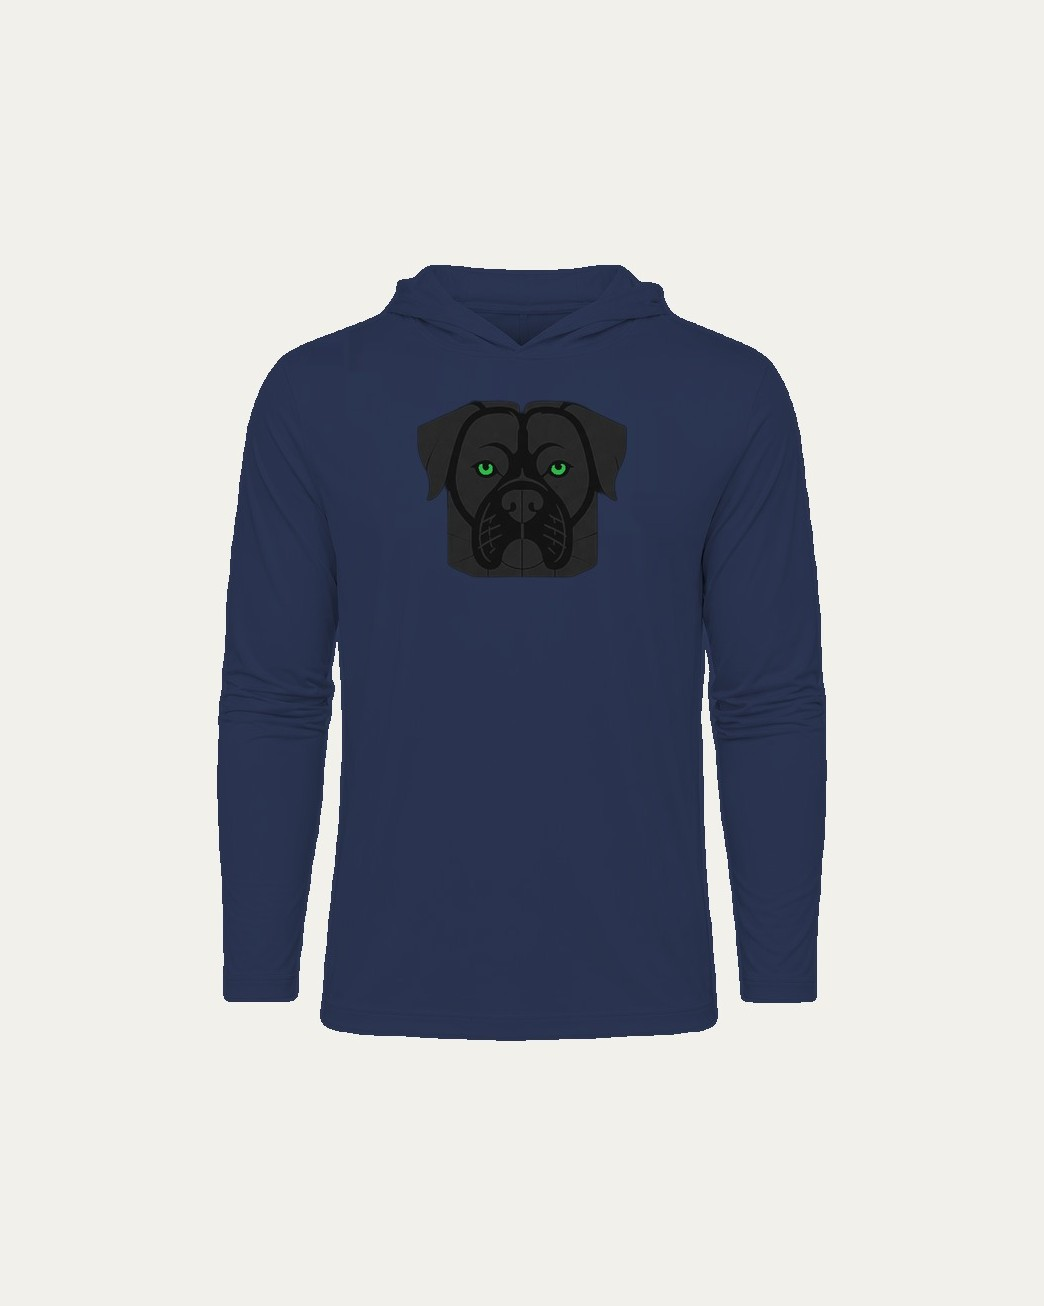
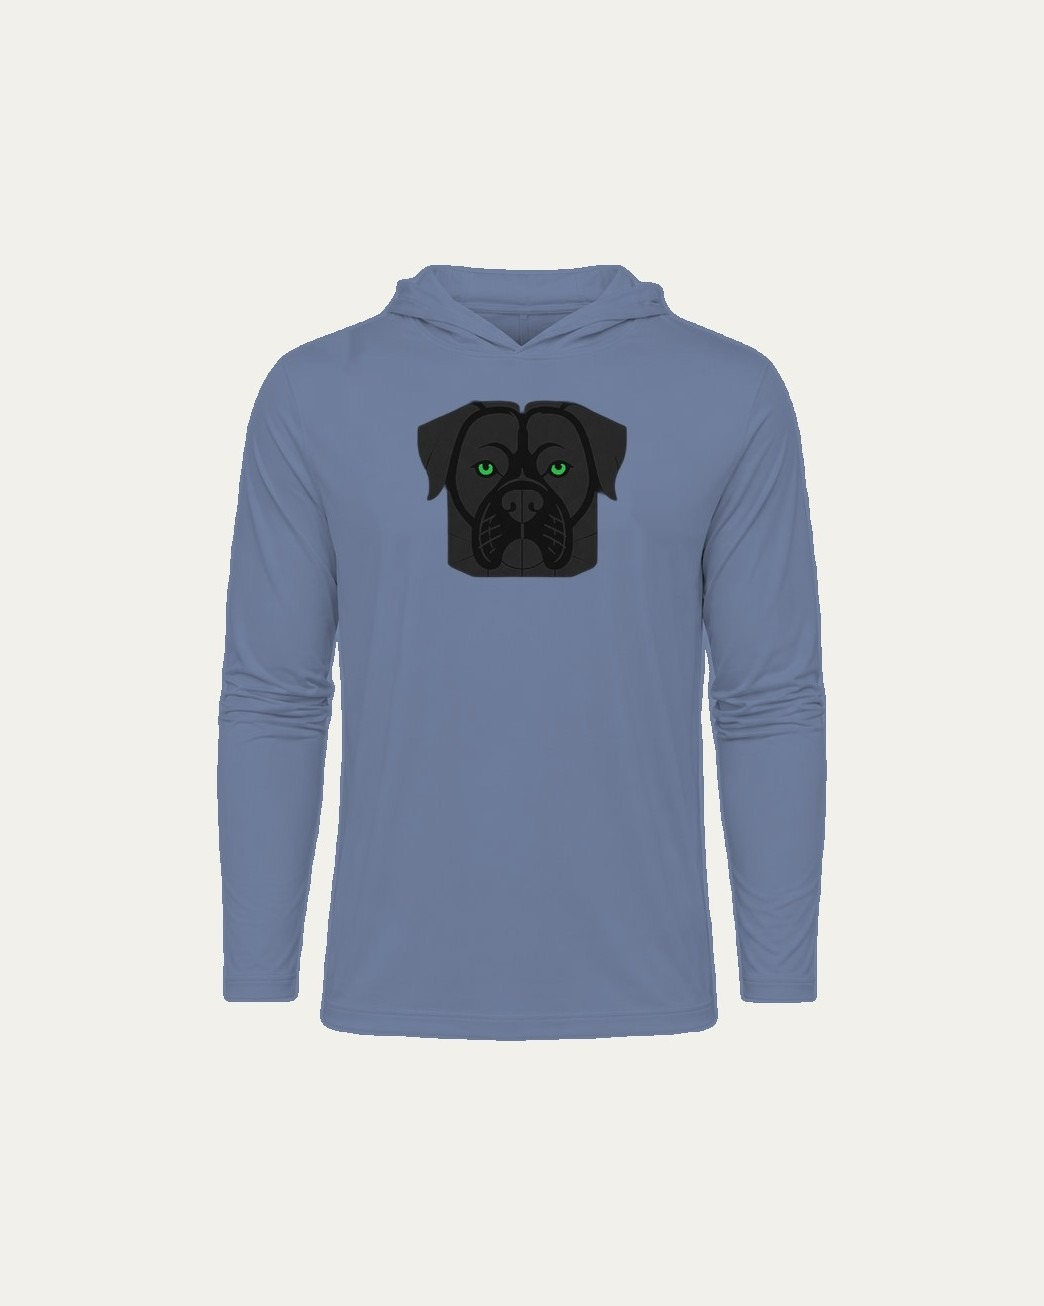
Georgia Blue: recolor from dark navy to the real dusty-blue garment color
Recolored every Georgia Blue (navy) asset to match the actual garment
Deven sent (a muted cornflower #6c7a98), replacing the too-dark slate
navy: ghost chest+madison (front/back/wide), on-model lookbook + madison
woman, both marquee tiles, and the swatch hex.

Changed region(s): [[0.1839, 0.1838, 0.7969, 0.7963]]

diff --git a/src/lib/products.ts b/src/lib/products.ts
@@ -69,7 +69,7 @@ const SWATCH: Record<Color, string> = {
   Yellow: "#efe6c4", // butter cream
   Gray: "#b7babf", // soft cool gray
   "Light Blue": "#8fa1c2", // steel / periwinkle
-  Navy: "#2a3450", // deep slate navy
+  Navy: "#6c7a98", // Georgia Blue — dusty cornflower (real garment)
 };
 
 // ── Colourway display names (branding) ──────────────────────────────────────
